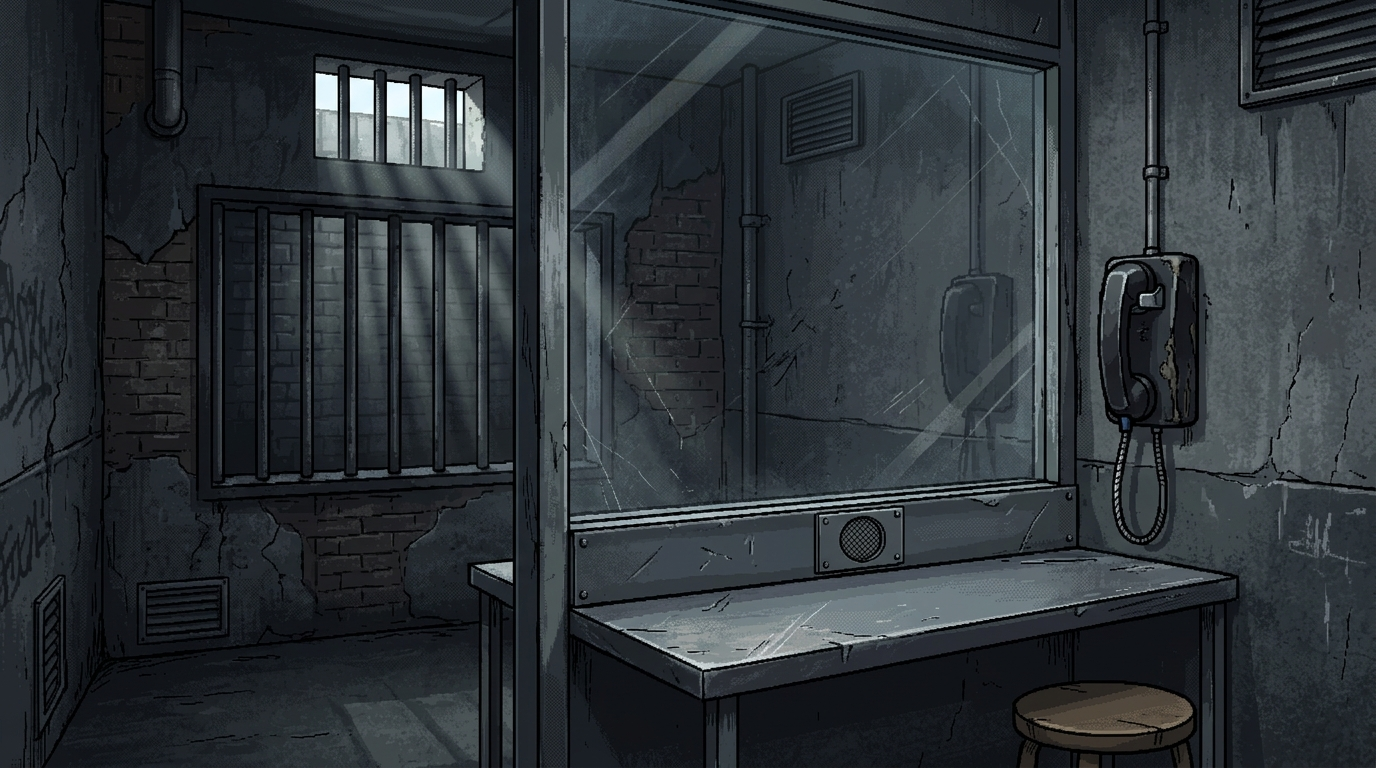
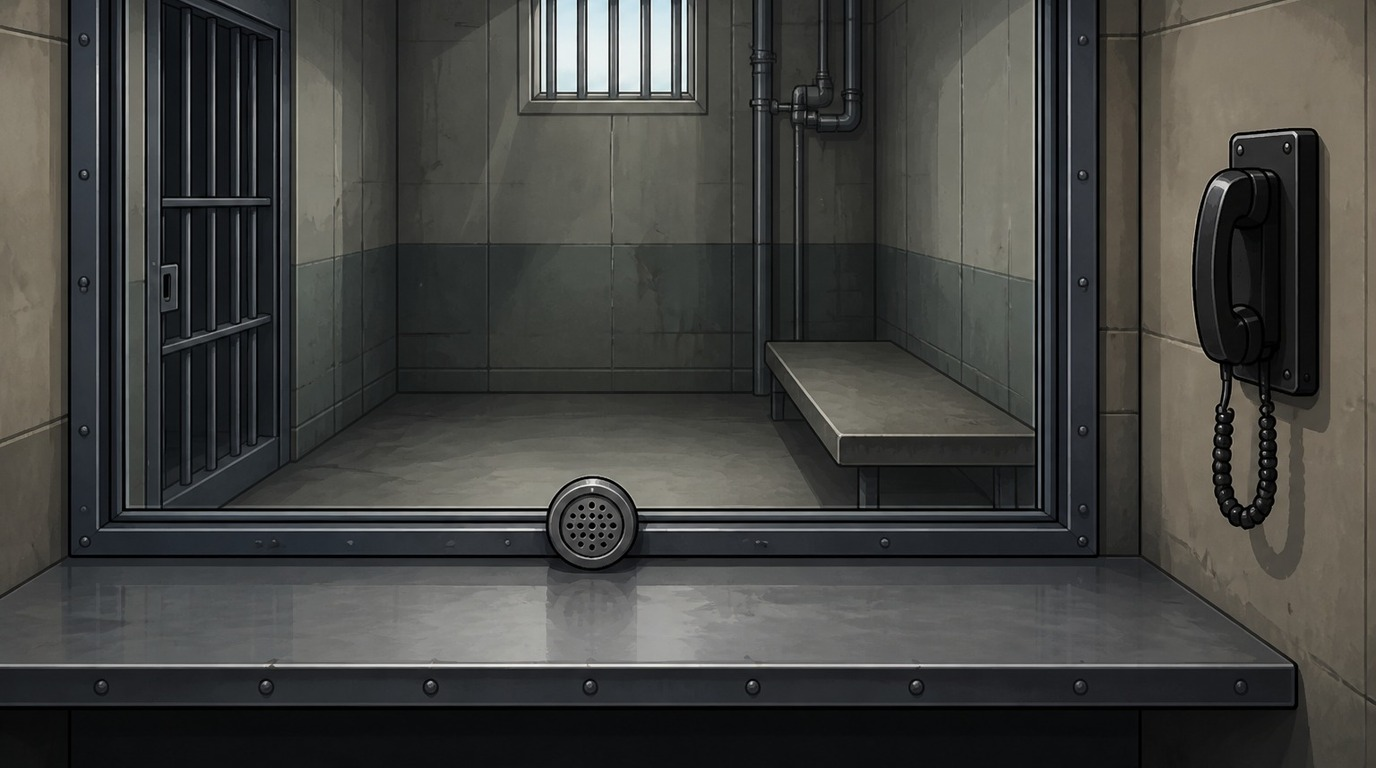
detention center and examine fix

diff --git a/tests/engine/InvestigationController.test.ts b/tests/engine/InvestigationController.test.ts
@@ -94,6 +94,68 @@ describe('InvestigationController', () => {
     expect(queuedDialogues.length).toBeGreaterThan(1);
   });
 
+  it('hides navigation and prevents talking or examining during first-time hotspot dialogue until completed', () => {
+    let completeCallback: (() => void) | undefined;
+    const manualController = new InvestigationController({
+      dom,
+      state,
+      script: CASE_SCRIPT,
+      soundEngine: soundEngineInstance,
+      midiComposer: midiComposerInstance,
+      onQueueDialogue: (_dlg, cb) => {
+        completeCallback = cb;
+      }
+    });
+
+    manualController.startInvestigation('museum');
+    expect(state.isHotspotExamined('pedestal')).toBe(false);
+
+    // Enter examine and click first hotspot (pedestal)
+    manualController.startExamineMode();
+    const hotspotArea = dom.hotspotsContainerEl.children[0] as HTMLElement;
+    hotspotArea.click();
+
+    // First-time dialogue is active: investigation nav must be hidden
+    expect(dom.investigationNavEl.classList.contains('hidden')).toBe(true);
+    expect(manualController.isFirstTimeDialogue).toBe(true);
+    expect(state.isHotspotExamined('pedestal')).toBe(false);
+
+    // Attempting to talk, examine, or move during first-time dialogue is blocked
+    manualController.openTalkMenu();
+    expect(dom.talkOptionsModalEl.classList.contains('hidden')).toBe(true);
+    manualController.startExamineMode();
+    expect(manualController.isExamineActive).toBe(false);
+    manualController.openMoveMenu();
+    expect(dom.moveLocationsModalEl.classList.contains('hidden')).toBe(true);
+
+    // Finish dialogue queue
+    expect(completeCallback).toBeDefined();
+    completeCallback!();
+
+    // Now dialogue is completed: hotspot marked examined and nav restored
+    expect(state.isHotspotExamined('pedestal')).toBe(true);
+    expect(manualController.isFirstTimeDialogue).toBe(false);
+    expect(dom.investigationNavEl.classList.contains('hidden')).toBe(false);
+  });
+
+  it('allows choosing to talk or investigate something else during repeated hotspot dialogue', () => {
+    state.markHotspotExamined('pedestal');
+    expect(state.isHotspotExamined('pedestal')).toBe(true);
+
+    controller.startInvestigation('museum');
+    controller.startExamineMode();
+    const hotspotArea = dom.hotspotsContainerEl.children[0] as HTMLElement;
+    hotspotArea.click();
+
+    // Repeated dialogue: investigation nav remains visible and isFirstTimeDialogue is false
+    expect(dom.investigationNavEl.classList.contains('hidden')).toBe(false);
+    expect(controller.isFirstTimeDialogue).toBe(false);
+
+    // Player CAN open talk menu
+    controller.openTalkMenu();
+    expect(dom.talkOptionsModalEl.classList.contains('hidden')).toBe(false);
+  });
+
   it('opens talk menu modal and handles conversation option', () => {
     controller.startInvestigation('museum');
     controller.openTalkMenu();

diff --git a/src/engine/Private/InvestigationController.ts b/src/engine/Private/InvestigationController.ts
@@ -23,6 +23,7 @@ export interface InvestigationControllerDeps {
 
 export class InvestigationController {
   public isExamineActive = false;
+  public isFirstTimeDialogue = false;
   public currentLocationCharPose: PoseName = null;
   private readonly dom: DomElements;
   private readonly state: GameStateManager;
@@ -44,6 +45,7 @@ export class InvestigationController {
   public startInvestigation(location: LocationId = 'museum'): void {
     this.state.mode = 'INVESTIGATION';
     this.state.currentLocation = location;
+    this.isFirstTimeDialogue = false;
     this.dom.investigationNavEl.classList.remove('hidden');
     this.dom.examineNavEl.classList.add('hidden');
     this.dom.trialNavEl.classList.add('hidden');
@@ -90,16 +92,28 @@ export class InvestigationController {
   }
 
   private handleHotspotClick(h: Hotspot): void {
+    const isRepeated = this.state.isHotspotExamined(h.id);
     this.soundEngine.playRealization();
     this.dom.examineTooltipEl.classList.add('hidden');
     this.exitExamineMode();
+    if (!isRepeated) {
+      this.dom.investigationNavEl.classList.add('hidden');
+      this.isFirstTimeDialogue = true;
+    }
     this.onQueueDialogue(h.dialogue, /*onComplete*/ () => {
+      this.isFirstTimeDialogue = false;
+      this.state.markHotspotExamined(h.id);
+      this.dom.investigationNavEl.classList.remove('hidden');
+      if (this.currentLocationCharPose) {
+        VisualEffects.setPose(this.dom.charSpriteEl, this.currentLocationCharPose);
+      }
       this.checkInvestigationProgress();
     });
   }
 
   // @Section(Examine Mode & Tooltips)
   public startExamineMode(): void {
+    if (this.isFirstTimeDialogue) return;
     this.isExamineActive = true;
     this.dom.hotspotsContainerEl.classList.add('visible-hotspots');
     this.dom.investigationNavEl.classList.add('hidden');
@@ -128,6 +142,7 @@ export class InvestigationController {
 
   // @Section(Talk Dialog & Readiness)
   public openTalkMenu(): void {
+    if (this.isFirstTimeDialogue) return;
     const scene = this.script.investigation[this.state.currentLocation];
     if (!scene || !scene.talkOptions) return;
 
@@ -139,6 +154,7 @@ export class InvestigationController {
   }
 
   public openMoveMenu(): void {
+    if (this.isFirstTimeDialogue) return;
     const destinations = this.state.unlockedLocations
       .map((locId) => {
         const scene = this.script.investigation[locId];

diff --git a/src/state/Private/GameStateManager.ts b/src/state/Private/GameStateManager.ts
@@ -22,6 +22,11 @@ export class GameStateManager {
     examined_pedestal: false,
     examined_armor: false,
     examined_vent: false,
+    examined_security_cam: false,
+    examined_treasure_chest: false,
+    examined_chapulin_spot: false,
+    examined_phone_spot: false,
+    examined_table_spot: false,
     talked_florinda_crime: false,
     talked_florinda_suspect: false,
     presented_chiquitolina_florinda: false,
@@ -30,6 +35,15 @@ export class GameStateManager {
     talked_chapulin_antenitas: false,
     ready_for_trial: false
   };
+
+  // @Section(Hotspot & Progress Tracking)
+  public isHotspotExamined(hotspotId: string): boolean {
+    return Boolean(this.flags[`examined_${hotspotId}`] || this.flags[hotspotId]);
+  }
+
+  public markHotspotExamined(hotspotId: string): void {
+    this.flags[`examined_${hotspotId}`] = true;
+  }
 
   // @Section(Location Operations)
   public unlockLocation(locationId: LocationId): boolean {
@@ -76,6 +90,7 @@ export class GameStateManager {
   }
 
   // @Section(Investigation Readiness)
+  // fallow-ignore-next-line complexity
   public checkTrialReadiness(): boolean {
     const hasRequiredClues =
       this.hasEvidence('chipote_chillon') &&

diff --git a/src/types/Private/state.ts b/src/types/Private/state.ts
@@ -13,14 +13,21 @@ export type LocationId = 'museum' | 'detention' | (string & {});
 
 // @Section(Progression Flags)
 export interface GameFlags {
-  examined_pedestal: boolean;
-  examined_armor: boolean;
-  examined_vent: boolean;
-  talked_florinda_crime: boolean;
-  talked_florinda_suspect: boolean;
-  presented_chiquitolina_florinda: boolean;
-  visited_detention: boolean;
-  talked_chapulin_reason: boolean;
-  talked_chapulin_antenitas: boolean;
+  examined_pedestal?: boolean;
+  examined_armor?: boolean;
+  examined_vent?: boolean;
+  examined_security_cam?: boolean;
+  examined_treasure_chest?: boolean;
+  examined_chapulin_spot?: boolean;
+  examined_phone_spot?: boolean;
+  examined_table_spot?: boolean;
+  talked_florinda_crime?: boolean;
+  talked_florinda_suspect?: boolean;
+  presented_chiquitolina_florinda?: boolean;
+  visited_detention?: boolean;
+  talked_chapulin_reason?: boolean;
+  talked_chapulin_antenitas?: boolean;
   ready_for_trial: boolean;
+  [key: string]: boolean | undefined;
 }
+

diff --git a/tests/state/GameStateManager.test.ts b/tests/state/GameStateManager.test.ts
@@ -137,10 +137,21 @@ describe('GameStateManager', () => {
     expect(newState.flags.talked_chapulin_reason).toBe(true);
   });
 
+  it('tracks examined hotspots using isHotspotExamined and markHotspotExamined', () => {
+    expect(state.isHotspotExamined('pedestal')).toBe(false);
+    expect(state.isHotspotExamined('armor')).toBe(false);
+
+    state.markHotspotExamined('pedestal');
+    expect(state.isHotspotExamined('pedestal')).toBe(true);
+    expect(state.isHotspotExamined('armor')).toBe(false);
+    expect(state.flags.examined_pedestal).toBe(true);
+  });
+
   it('exports singleton gameState with evidence catalog correctly', () => {
     expect(gameState).toBeInstanceOf(GameStateManager);
     expect(gameState.allEvidence.insignia_abogado.name).toBe('Insignia de Abogado CH');
     expect(Object.keys(gameState.allEvidence)).toHaveLength(8);
   });
 });
+
 

diff --git a/docs/lessons-learned/investigation-dialogue-completion-lifecycle.md b/docs/lessons-learned/investigation-dialogue-completion-lifecycle.md
@@ -1,0 +1,11 @@
+# Investigation Dialogue Completion & Navigation Lifecycle
+
+## Context & Problem
+During crime scene exploration, examining an environment hotspot triggers narrative dialogue that awards evidence, introduces critical testimony clues, or triggers progress flags.
+
+If the main investigation navigation (`#investigation-controls`: "🔍 Examinar", "💬 Hablar", "🏃 Moverse", "⚖ Ir a Juicio") is revealed immediately upon clicking a hotspot, the player can click "Hablar" or "Examinar" mid-dialogue. Because the dialogue queue is FIFO and single-channel, opening a new menu topic overwrites the active queue and discards the uncompleted `onComplete` callback, preventing evidence grants and progression flags from ever firing.
+
+## What Was Learned
+1. **Completion-Gated Navigation Locking**: First-time hotspot investigations are critical progression gates. During first-time investigation dialogue, navigation controls must remain hidden and secondary menu triggers (`openTalkMenu`, `startExamineMode`, `openMoveMenu`) must be blocked until the dialogue queue exhausts and the `onComplete` callback marks the hotspot examined.
+2. **Repeated Dialogue Fast-Bypass**: Once a hotspot has been marked as examined in `gameState.flags`, re-examining it constitutes a repeated dialogue. In repeated dialogues, navigation controls remain interactive so that the player is not forced to sit through already-read lore before choosing another action.
+3. **Canonical Completion Hook**: Marking a hotspot examined must occur inside the `onComplete` callback of the dialogue queue, not on the initial click. This guarantees that all lines, clue grants, and SFX have been experienced before the game state recognizes the inspection as completed.

diff --git a/docs/flows/investigation-flow.md b/docs/flows/investigation-flow.md
@@ -28,9 +28,15 @@ Operational guide for player actions during the crime scene investigation phase.
 5. Player clicks hotspot:
    - SFX `'realization'` plays.
    - `exitExamineMode()` disables hotspot hover layer.
-   - Hotspot dialogue array is queued via `queueDialogue()`.
-   - Any `line.addEvidence` adds item to `gameState.inventory` and shows `#game-notification`.
-   - On completion callback, `checkInvestigationProgress()` verifies if trial is unlocked.
+   - If first-time inspection (`!gameState.isHotspotExamined(h.id)`):
+     - Investigation controls (`#investigation-controls`) remain hidden to prevent switching to talk/examine during active dialogue.
+     - Hotspot dialogue array is queued via `queueDialogue()`.
+     - Any `line.addEvidence` adds item to `gameState.inventory` and shows `#game-notification`.
+     - On completion callback, `gameState.markHotspotExamined(h.id)` records completion, `#investigation-controls` is revealed, and `checkInvestigationProgress()` runs.
+   - If repeated inspection (`gameState.isHotspotExamined(h.id)`):
+     - Investigation controls (`#investigation-controls`) remain visible, allowing player to switch to talk or examine something else immediately.
+     - Hotspot dialogue array is queued via `queueDialogue()`.
+
 
 ### Location Selection & Move Modal
 1. Player clicks "🏃 Moverse" (`#btn-inv-move`).

diff --git a/docs/architecture/game-engine.md b/docs/architecture/game-engine.md
@@ -64,6 +64,9 @@ flowchart TD
    - `startInvestigation(location)` renders hotspots and loads intro dialogue.
    - `startExamineMode()` enables pointer events on hotspots, attaches a cursor-following tooltip (`#examine-tooltip`), and hides the character sprite to give an unobstructed view.
    - Hotspot clicks trigger audio feedback, hide the examine cursor, and queue hotspot dialogue.
+   - **First-time Hotspot Dialogue**: When examining a hotspot for the first time, investigation navigation controls (`#investigation-controls`) remain hidden and actions (talk, examine, move) are locked until the dialogue is completed, at which point the hotspot is marked examined in `gameState.flags` and navigation controls reappear.
+   - **Repeated Hotspot Dialogue**: When examining a previously completed hotspot, navigation controls remain interactive, allowing the player to freely talk or examine something else without being locked into known dialogue.
+
 
 7. **Debug Trial Launch** ([[src/engine/Private/GameEngine.ts#Initialization & Bootstrapping]]):
    - `startTrialDebug()` bypasses the investigation phase, activates Web Audio API synth, dismisses splash screen overlay, populates all required case clues via `gameState.populateTrialEvidence()`, and launches the courtroom trial directly.

diff --git a/docs/lessons-learned/README.md b/docs/lessons-learned/README.md
@@ -31,3 +31,5 @@ Avoid: "bug description + fix". Prefer: "what I learned that applies to future w
 | [`dialogue-box-sprite-baseline-alignment.md`](file:///c:/Proyectos/ace-attorney-gemini/docs/lessons-learned/dialogue-box-sprite-baseline-alignment.md) | Aligning free-standing waist-up sprite baselines with the dialogue box top edge in visual novel scenes. | 2026-08-25 |
 | [`instant-camera-cut-staging.md`](file:///c:/Proyectos/ace-attorney-gemini/docs/lessons-learned/instant-camera-cut-staging.md) | Snapping stage composition geometry instantly vs CSS transitions causing sliding artifacts during shot changes. | 2026-08-25 |
 | [`web-audio-audioparam-immutability.md`](file:///c:/Proyectos/ace-attorney-gemini/docs/lessons-learned/web-audio-audioparam-immutability.md) | Avoiding Object.assign hazards on read-only AudioParam getters in Web Audio synthesis. | 2026-08-25 |
+| [`investigation-dialogue-completion-lifecycle.md`](file:///c:/Proyectos/ace-attorney-gemini/docs/lessons-learned/investigation-dialogue-completion-lifecycle.md) | Gating environment investigation dialogue completion and controls visibility to protect FIFO queue callbacks. | 2026-08-29 |
+
